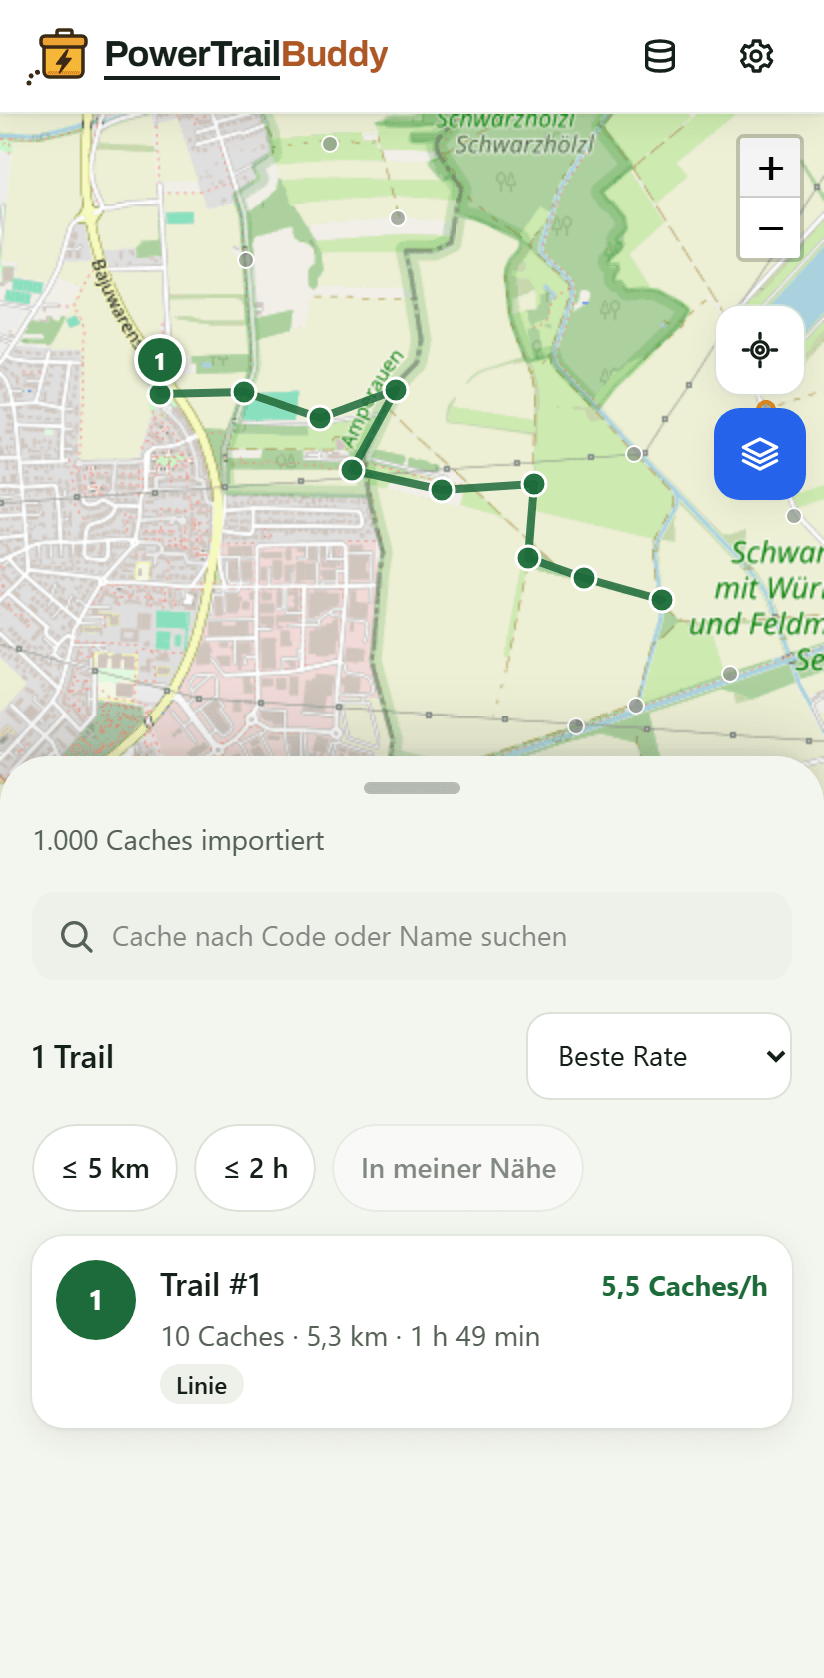
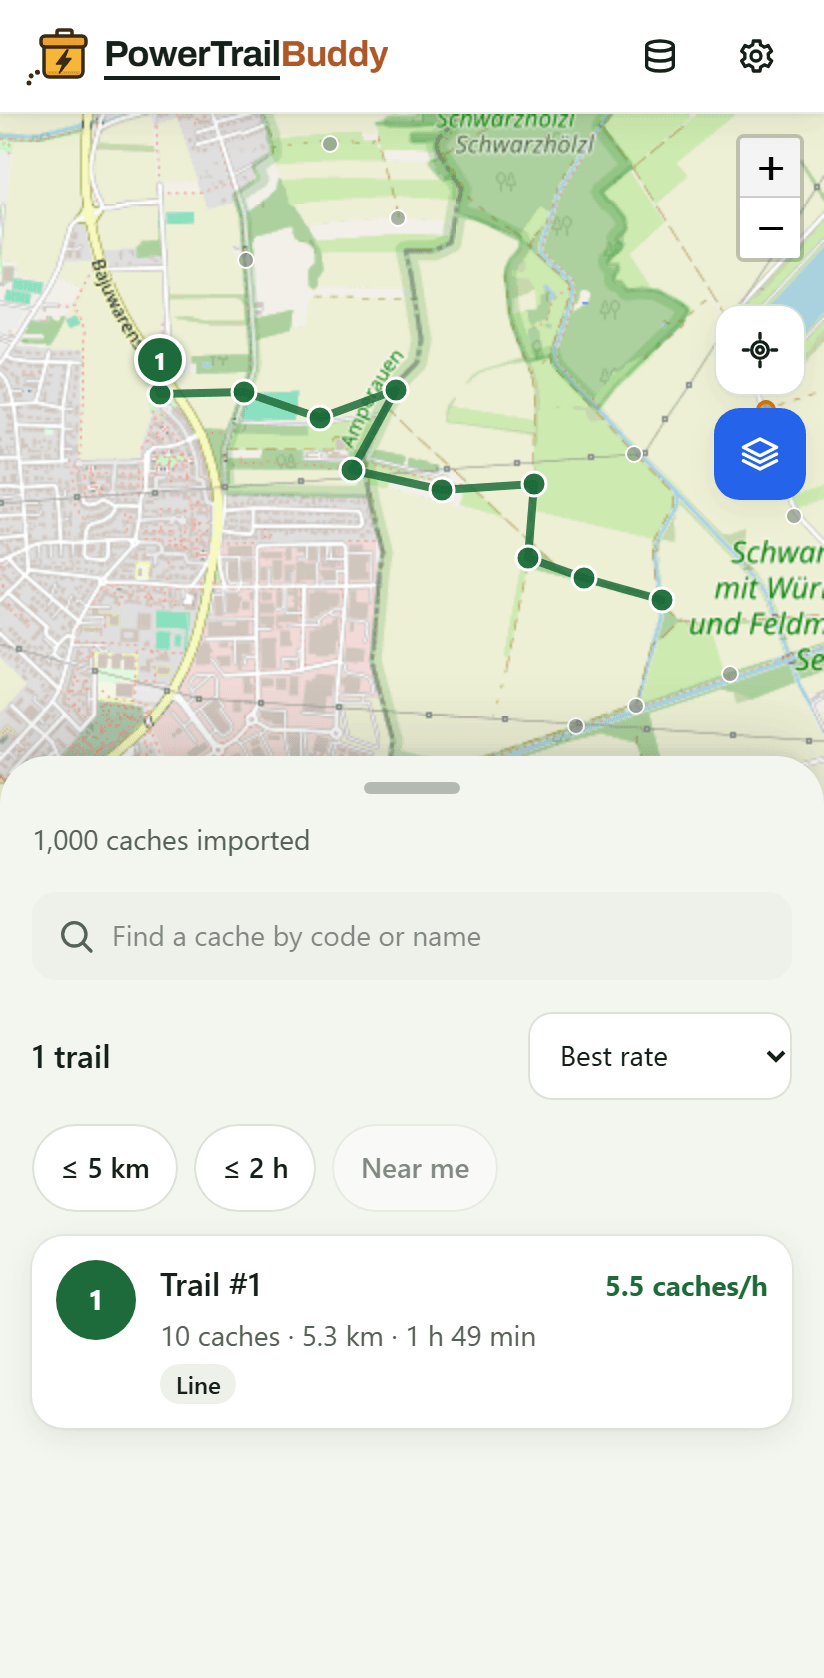
Take the docs screenshots in English, the docs' language

diff --git a/docs/how-to/developer-guide.md b/docs/how-to/developer-guide.md
@@ -254,7 +254,7 @@ reaches a browser test that would pass online and hide the gap.
 ## Update the screenshots
 
 `docs/images/` holds the screenshots in the README and the user guide, taken
-from the built export in German, the default locale, on a desktop and a
+from the built export in English, the docs' language, on a desktop and a
 Pixel 7 viewport, over the real OpenStreetMap map. The data is a Pocket Query
 around Munich, anonymized: real coordinates, everything else invented. After a
 visible UI change:

diff --git a/README.md b/README.md
@@ -31,7 +31,7 @@ hour. Then it guides you through one, cache by cache, on a map.
   <img src="docs/images/phone-walk.png" alt="A walk on a phone, guiding to the next cache" width="200">
 </p>
 
-The screenshots show the German interface on the OpenStreetMap map, with a
+The screenshots show the English interface on the OpenStreetMap map, with a
 Pocket Query around Munich whose cache names, codes, owners and logs are
 replaced by invented ones; only the coordinates are real.
 
